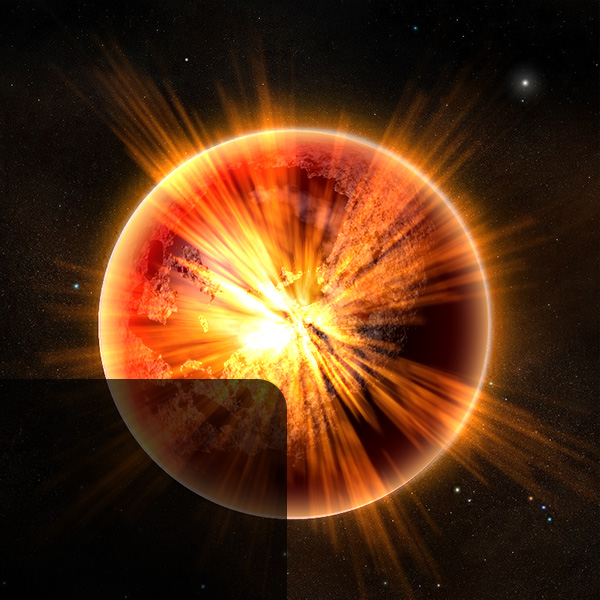
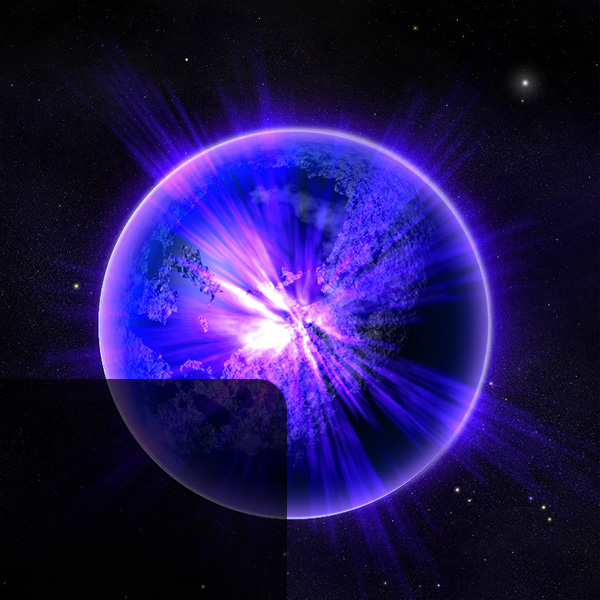
Design Update
+ Added new Background
+ Added resize dimension

diff --git a/StarBattle_Client/src/com/starbattle/client/views/reset/ResetPasswordView.java b/StarBattle_Client/src/com/starbattle/client/views/reset/ResetPasswordView.java
@@ -1,6 +1,8 @@
 package com.starbattle.client.views.reset;
 
 import java.awt.BorderLayout;
+import java.awt.Color;
+import java.awt.Dimension;
 import java.awt.event.ActionEvent;
 import java.awt.event.ActionListener;
 
@@ -10,6 +12,7 @@ import javax.swing.JPanel;
 
 import com.starbattle.client.connection.NetworkConnection;
 import com.starbattle.client.layout.DesignButton;
+import com.starbattle.client.layout.DesignLabel;
 import com.starbattle.client.views.login.LoginView;
 import com.starbattle.client.window.ContentView;
 import com.starbattle.network.client.SendServerConnection;
@@ -19,6 +22,7 @@ public class ResetPasswordView extends ContentView {
 
 	public final static int VIEW_ID = 2;
 
+	
 	private ResetPasswordModel model = new ResetPasswordModel();
 	private JButton backButton = new DesignButton("Back");
 	private JButton resetButton = new DesignButton("Send Email");
@@ -26,14 +30,20 @@ public class ResetPasswordView extends ContentView {
 
 	public ResetPasswordView(NetworkConnection connection) {
 
+		windowSize=new Dimension(400,400);
+		
 		sendConnection = connection.getSendConnection();
 		view.setLayout(new BorderLayout());
-		JLabel title = new JLabel("Reset Password", JLabel.CENTER);
+		view.setBackground(new Color(170,110,40));
+		
+		JLabel title = new DesignLabel("Reset Password",25);
+		title.setHorizontalAlignment(JLabel.CENTER);
 		title.setFont(title.getFont().deriveFont(20f));
 		view.add(title, BorderLayout.NORTH);
 		view.add(model.getView(), BorderLayout.CENTER);
 
 		JPanel footer = new JPanel();
+		footer.setOpaque(false);
 		footer.add(backButton);
 		footer.add(resetButton);
 		view.add(footer, BorderLayout.SOUTH);

diff --git a/StarBattle_Client/src/com/starbattle/client/views/login/LoginModel.java b/StarBattle_Client/src/com/starbattle/client/views/login/LoginModel.java
@@ -23,11 +23,14 @@ public class LoginModel extends StandardViewModel {
 
 	private JTextField username = new JTextField(19);
 	private JPasswordField password = new JPasswordField(22);
-	private JLabel errorText = new JLabel("  ");
+	private JLabel errorText = new DesignLabel(null,"error.png",new Color(250, 100, 100));
 	private JCheckBox rememberName = new JCheckBox("Remember Name", false);
 	private JButton forgotPassword = new JButton("Forgot password?");
 
 	public LoginModel() {
+		
+		errorText.setOpaque(true);
+		errorText.setBackground(new Color(0,0,0));
 		rememberName.setOpaque(false);
 		rememberName.setForeground(new Color(200, 200, 200));
 		password.setCaretColor(Color.WHITE);
@@ -37,8 +40,6 @@ public class LoginModel extends StandardViewModel {
 		username.setForeground(new Color(200, 200, 250));
 		username.setFont(username.getFont().deriveFont(16f));
 		username.setCaretColor(Color.WHITE);
-		errorText.setForeground(new Color(250, 150, 100));
-		errorText.setFont(errorText.getFont().deriveFont(15f));
 		view.setOpaque(false);
 
 		view.setBorder(BorderFactory.createEmptyBorder(5, 15, 10, 0));

diff --git a/StarBattle_Client/src/com/starbattle/client/views/register/RegisterView.java b/StarBattle_Client/src/com/starbattle/client/views/register/RegisterView.java
@@ -27,8 +27,7 @@ import com.starbattle.network.connection.objects.NP_Register;
 public class RegisterView extends ContentView {
 
 	public final static int VIEW_ID = 1;
-	
-	private Dimension windowSize=new Dimension(400,500);
+
 	
 	private JButton backButton = new DesignButton("Back");
 	private JButton registerButton = new DesignButton("Register");
@@ -37,12 +36,14 @@ public class RegisterView extends ContentView {
 
 	public RegisterView(NetworkConnection connection) {
 
+		windowSize=new Dimension(400,500);
+		
 		connection.setRegistrationListener(new Registration());
 		sendConnection = connection.getSendConnection();
 		
 		view.setBackground(new Color(170,110,40));
 		view.setLayout(new BorderLayout());
-		DesignLabel title=new DesignLabel("Register new Account", Color.WHITE, 25);
+		DesignLabel title=new DesignLabel("Register new Account", 25);
 		title.setHorizontalAlignment(JLabel.CENTER);
 		view.add(title, BorderLayout.NORTH);
 		view.add(registerModel.getView(), BorderLayout.CENTER);

diff --git a/StarBattle_Client/src/com/starbattle/client/views/login/LoginView.java b/StarBattle_Client/src/com/starbattle/client/views/login/LoginView.java
@@ -27,7 +27,7 @@ import com.starbattle.network.connection.objects.NP_Login;
 public class LoginView extends ContentView {
 
 	public final static int VIEW_ID = 0;
-	private Dimension windowSize=new Dimension(600,600);
+
 	
 	private JButton loginButton = new DesignButton("Login");
 	private JButton registerButton = new DesignButton("Create Account");
@@ -38,6 +38,8 @@ public class LoginView extends ContentView {
 	
 	public LoginView(NetworkConnection connection) {
 
+		windowSize=new Dimension(600,600);
+		
 		sendConnection = connection.getSendConnection();
 		connection.setRegistrationListener(new Registration());
 		
@@ -133,7 +135,7 @@ public class LoginView extends ContentView {
 
 	@Override
 	protected void initView() {
-		loginModel.setErrorText("");
+		loginModel.setErrorText(null);
 		resizeWindow(windowSize);
 		
 		//check config for remember username

diff --git a/StarBattle_Client/src/com/starbattle/client/views/reset/ResetPasswordModel.java b/StarBattle_Client/src/com/starbattle/client/views/reset/ResetPasswordModel.java
@@ -1,6 +1,7 @@
 package com.starbattle.client.views.reset;
 
 import java.awt.Color;
+import java.awt.Dimension;
 
 import javax.swing.BorderFactory;
 import javax.swing.Box;
@@ -20,6 +21,10 @@ public class ResetPasswordModel extends StandardViewModel{
 	private JTextArea info=new JTextArea(5,22);
 	
 	public ResetPasswordModel() {
+		
+		
+		
+		
 		view.setLayout(new VerticalLayout());
 		view.setBorder(BorderFactory.createEmptyBorder(20, 70, 20, 50));
 		view.setBackground(new Color(200,200,200));

diff --git a/StarBattle_Client/src/com/starbattle/client/window/ContentView.java b/StarBattle_Client/src/com/starbattle/client/window/ContentView.java
@@ -7,7 +7,18 @@ import javax.swing.JPanel;
 public abstract class ContentView {
 
 	protected ContentPanel view=new ContentPanel();
+	protected Dimension windowSize;
 	private ViewChangeListener listener;
+	
+	
+	public void open()
+	{
+		if(windowSize!=null)
+		{
+			resizeWindow(windowSize);
+		}
+		initView();
+	}
 	
 	protected abstract void initView();
 	

diff --git a/StarBattle_Client/src/com/starbattle/client/window/WindowContent.java b/StarBattle_Client/src/com/starbattle/client/window/WindowContent.java
@@ -44,7 +44,7 @@ public class WindowContent extends JPanel{
 	public void showView(ContentView view)
 	{
 		currentView=view;
-		view.initView();
+		view.open();
 		this.removeAll();
 		this.add(view.getView(),BorderLayout.CENTER);
 		this.revalidate();

diff --git a/StarBattle_Client/src/com/starbattle/client/main/debug/StarBattleClientDebug.java b/StarBattle_Client/src/com/starbattle/client/main/debug/StarBattleClientDebug.java
@@ -27,7 +27,7 @@ public class StarBattleClientDebug {
 		window.addView(new LobbyView(debugConnection));
 		
 		//set starting view
-		window.open(LoginView.VIEW_ID);
+		window.open(LobbyView.VIEW_ID);
 		
 	}
 	
